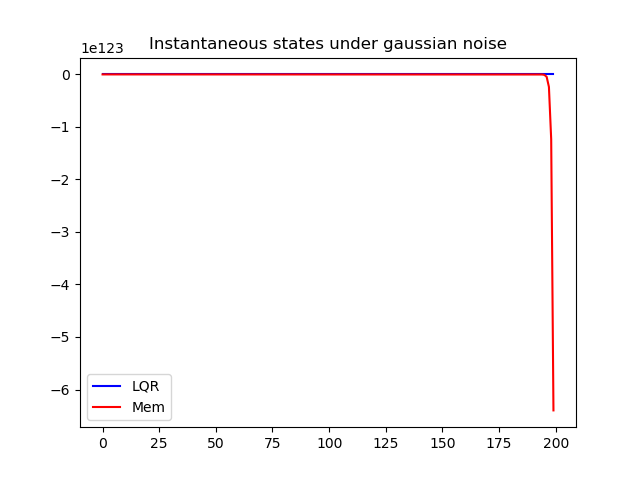
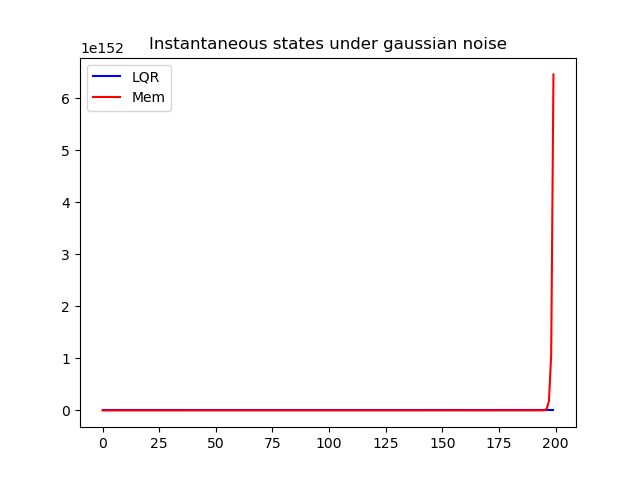
more changes

diff --git a/examples/agents/memTest.py b/examples/agents/memTest.py
@@ -4,8 +4,8 @@ nb_dir = os.path.split(os.getcwd())[0]
 if nb_dir not in sys.path:
     sys.path.append(nb_dir)
 print(sys.path)
-sys.path.append('/Users/ayushalag/Documents/cosIW/cosIW_sp21/')
-os.chdir('/Users/ayushalag/Documents/cosIW/cosIW_sp21/')
+sys.path.append('/Users/shray/Documents/cosIW/cosIW_sp21/')
+os.chdir('/Users/shray/Documents/cosIW/cosIW_sp21/')
 print(os.getcwd())
 
 from deluca.agents import GPC, Adaptive, Mem, PID, LQR
@@ -15,7 +15,7 @@ import numpy as np
 from tqdm import tqdm
 import matplotlib.pyplot as plt
 
-cummean = lambda x: np.cumsum(x)/(np.ones(T) + np.arange(T))
+cummean = lambda x: np.cumsum(x)/(np.ones(T-1) + np.arange(T-1))
 n, m = 5,3
 
 np.seterr('raise')
@@ -31,11 +31,11 @@ def run_loop(T, controller, A, B, noise):
 
 def get_errs(T, controller, A, B, noise): 
     states = np.zeros((T, n))
-    errs = np.zeros((T, 1))
-    actions = np.zeros((T,m))
-    dists = np.zeros((T, m))
+    errs = np.zeros((T-1, 1))
+    actions = np.zeros((T-1,m))
+    dists = np.zeros((T-1, m))
 
-    for i in tqdm(range(1, T)):
+    for i in tqdm(range(0, T-1)):
         print("\ni: " + str(i) + "\n")
 #         print("action: ")
 #         print(actions[i-1])
@@ -43,32 +43,34 @@ def get_errs(T, controller, A, B, noise):
 #         print(states[i-1])
 
         if (noise == "normal"):
-            w_t = np.random.normal(0, 0.2, size=(m,1))
+            w_t = np.random.normal(0, 0.2, size=(m,))
         elif (noise == "none"):
-            w_t = np.zeros((m,1))
+            w_t = np.zeros((m,))
         else:
-            w_t = np.random.normal(0, 0.2, size=(m,1)) *(i%50 < 25) + 0.4 * np.sin(i) *(i%50>= 25)
-        
-        dists[i] = w_t[0]
+            w_t = np.random.normal(0, 0.2, size=(m,)) * (i%50 < 25) + 0.4 * np.sin(i) *(i%50>= 25)
+
+        dists[i] = w_t
 
         try:
-            actions[i] = controller(states[i-1], A, B, w=dists[i-1], lam=0)
+            actions[i] = controller(states[i], A, B, w=dists[i], lam=0)
         except:
-            print("prevState: " + str(states[i-1]))
-            print("noise: " + str(dists[i-1]))
-            actions[i] = controller(states[i-1], w = dists[i-1], lam = 0)
+            print("state: " + str(states[i]))
+            print("noise: " + str(dists[i]))
+            actions[i] = controller(states[i], w = dists[i], lam = 0)
             print("action: " + str(actions[i]))
 
-        a_part = A@states[i-1]
-        b_part = np.ndarray.flatten(B @ (actions[i] + dists[i-1]))
-        states[i] += a_part
-        states[i] += b_part
-        print("state: " + str(states[i]))
+        a_part = A@states[i]
+        b_part = np.ndarray.flatten(B @ (actions[i] + dists[i]))
+        print("a part: " + str(a_part))
+        print("b part: " + str(b_part))
+        states[i+1] += a_part
+        states[i+1] += b_part
+        print("next state: " + str(states[i+1]))
 
 #         if(i % T//2 == 0): # switch system
 #             A,B = np.array([[1.,1.5], [0,1.]]), np.array([[0],[0.9]])
 
-        errs[i] = (np.linalg.norm(states[i])+np.linalg.norm(actions[i]))
+        errs[i] = 0.5*(np.linalg.norm(states[i])+ 0.5*np.linalg.norm(actions[i]))
 
     return states, errs, actions
 

diff --git a/deluca/utils/optimR.py b/deluca/utils/optimR.py
@@ -69,28 +69,31 @@ class optimROBD(object):
 
     #TODO: incorporate projection
     def findSetMin(self, function, omega_t, radius_t, v_tminus):
-        return omega_t
-        x0 = (v_tminus+np.random.randn(self._d), v_tminus+np.random.randn(self._d))
-
-        result = minimize(function, x0, method='Nelder-Mead')
-
-        if result.success:
-            fitted_params = np.array(result.x[1]) #want to return v?
-            print("fitted: " + str(fitted_params))
-            print("omega: " + str(omega_t))
-            diff = fitted_params - omega_t
-            norm = np.linalg.norm(diff)
-            
-            if norm != 0:
-                q = (radius_t/norm)*diff
-            else:
-                q = 0
-                
-            final = q + omega_t
-            return -1*final # projected answer
-            #return omega_t
+        if self._lam ==. 0:
+            return omega_t
         else:
-            raise ValueError(result.message)
+#         return omega_t
+            x0 = (v_tminus+np.random.randn(self._d), v_tminus+np.random.randn(self._d))
+
+            result = minimize(function, x0, method='Nelder-Mead')
+
+            if result.success:
+                fitted_params = np.array(result.x[self._d:]) #want to return v?
+                print("fitted: " + str(fitted_params))
+                print("omega: " + str(omega_t))
+                diff = fitted_params - omega_t
+                norm = np.linalg.norm(diff)
+
+                if norm != 0:
+                    q = (radius_t/norm)*diff
+                else:
+                    q = 0
+
+                final = q + omega_t
+                return -1*final # projected answer
+                #return omega_t
+            else:
+                raise ValueError(result.message)
     
     '''
     no longer necessary

diff --git a/deluca/agents/_mem.py b/deluca/agents/_mem.py
@@ -164,8 +164,8 @@ class Mem(Agent):
     def getOuts(self):
         lsum = 0
         for idx, C in enumerate(self._Cs):
-            if self._t-1-idx >= 0: 
-                lsum += np.matmul(C, self._ys[self._t-idx-1])
+            if self._t-idx >= 0: 
+                lsum += np.matmul(C, self._ys[self._t-1-idx])
         return self._ys[self._t] - lsum
     
     # takes in state, disturbance, disturbance radius, qs, lambda
